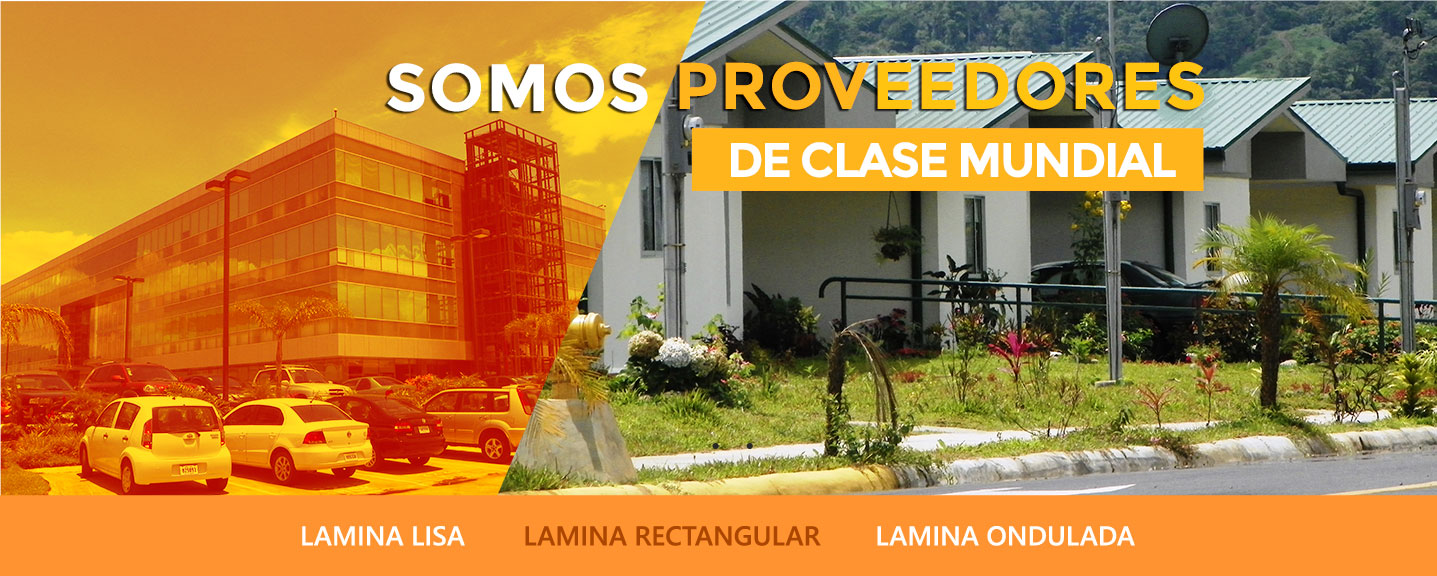
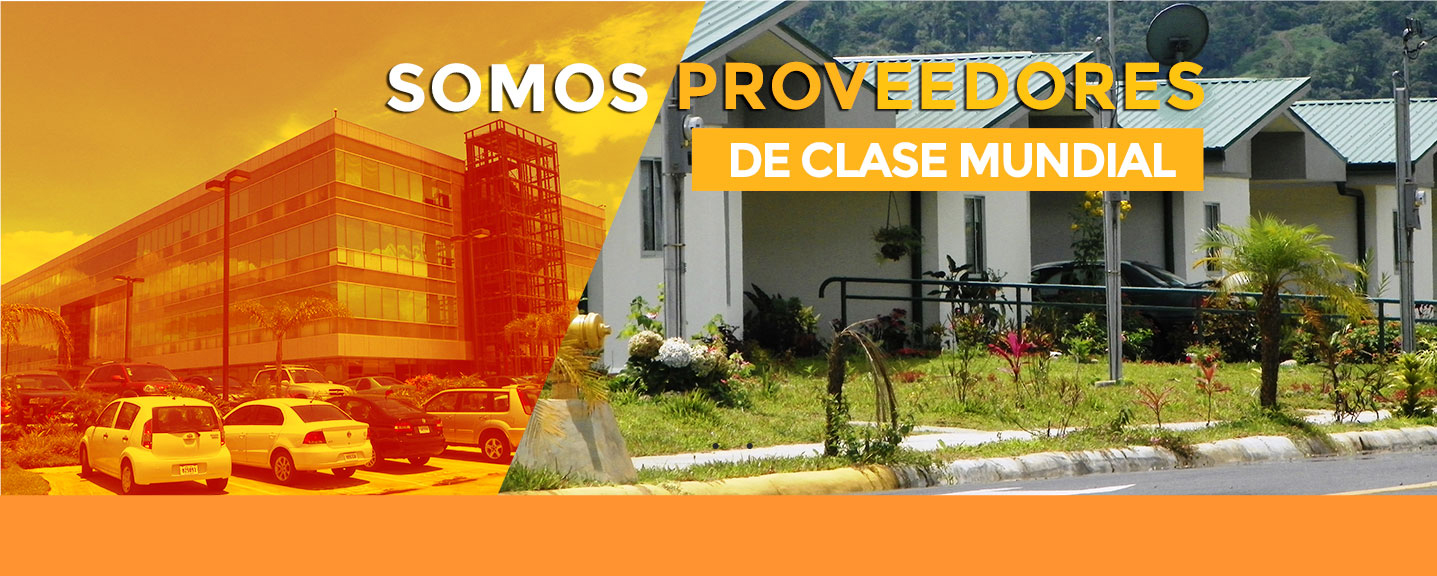
actual imd

Changed region(s): [[0.3674, 0.9062, 0.5818, 0.9688], [0.6124, 0.9062, 0.7961, 0.9688], [0.2143, 0.9062, 0.3368, 0.9688]]

diff --git a/assets/stylus/style.css b/assets/stylus/style.css
@@ -140,7 +140,7 @@ header .text-header-last p {
 .flayer {
   position: relative;
   height: 600px;
-  background-image: url("../images/banner-desktop.svg");
+  background-image: url("../images/banner-desktop.jpg");
   background-position: center center;
   background-repeat: no-repeat;
   -webkit-background-size: cover;
